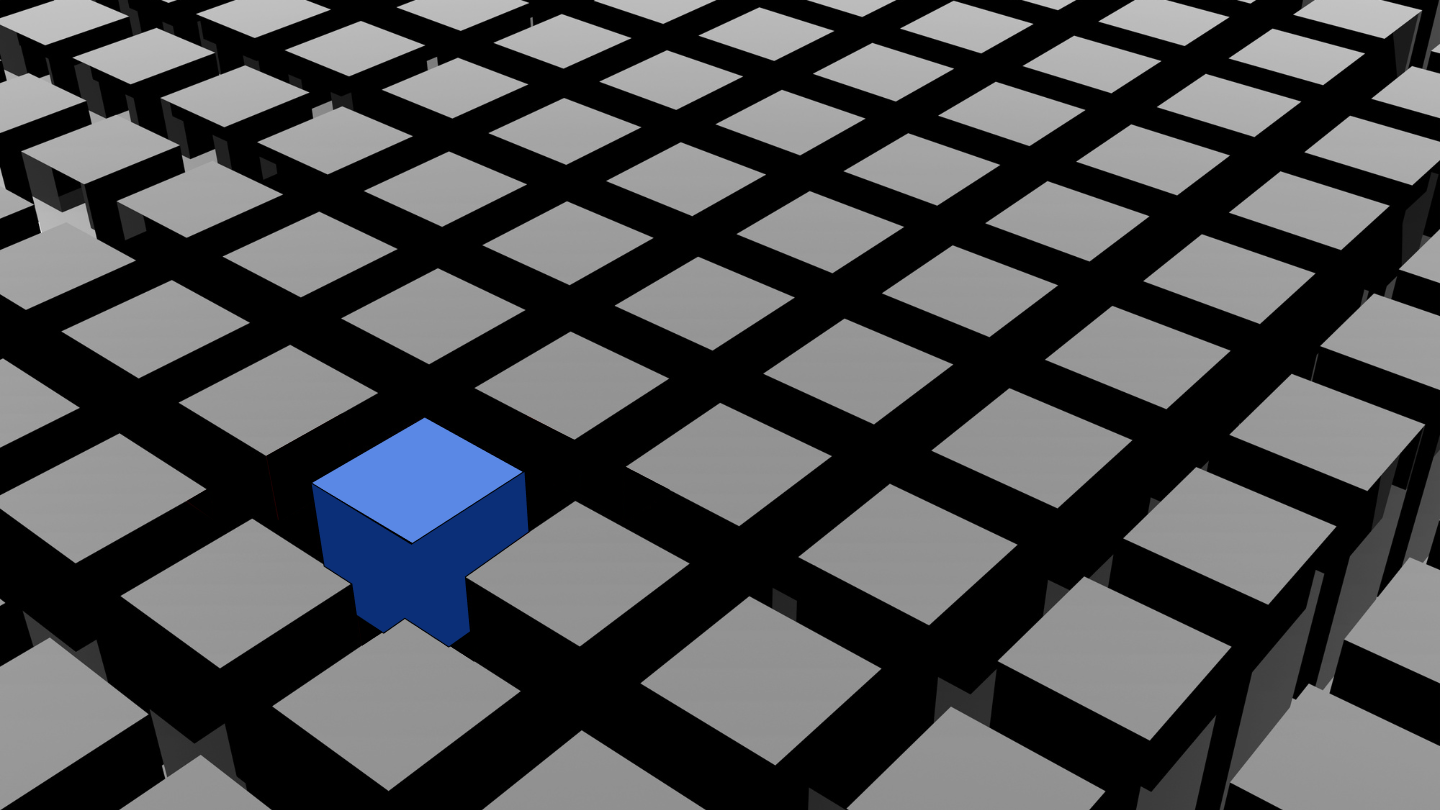
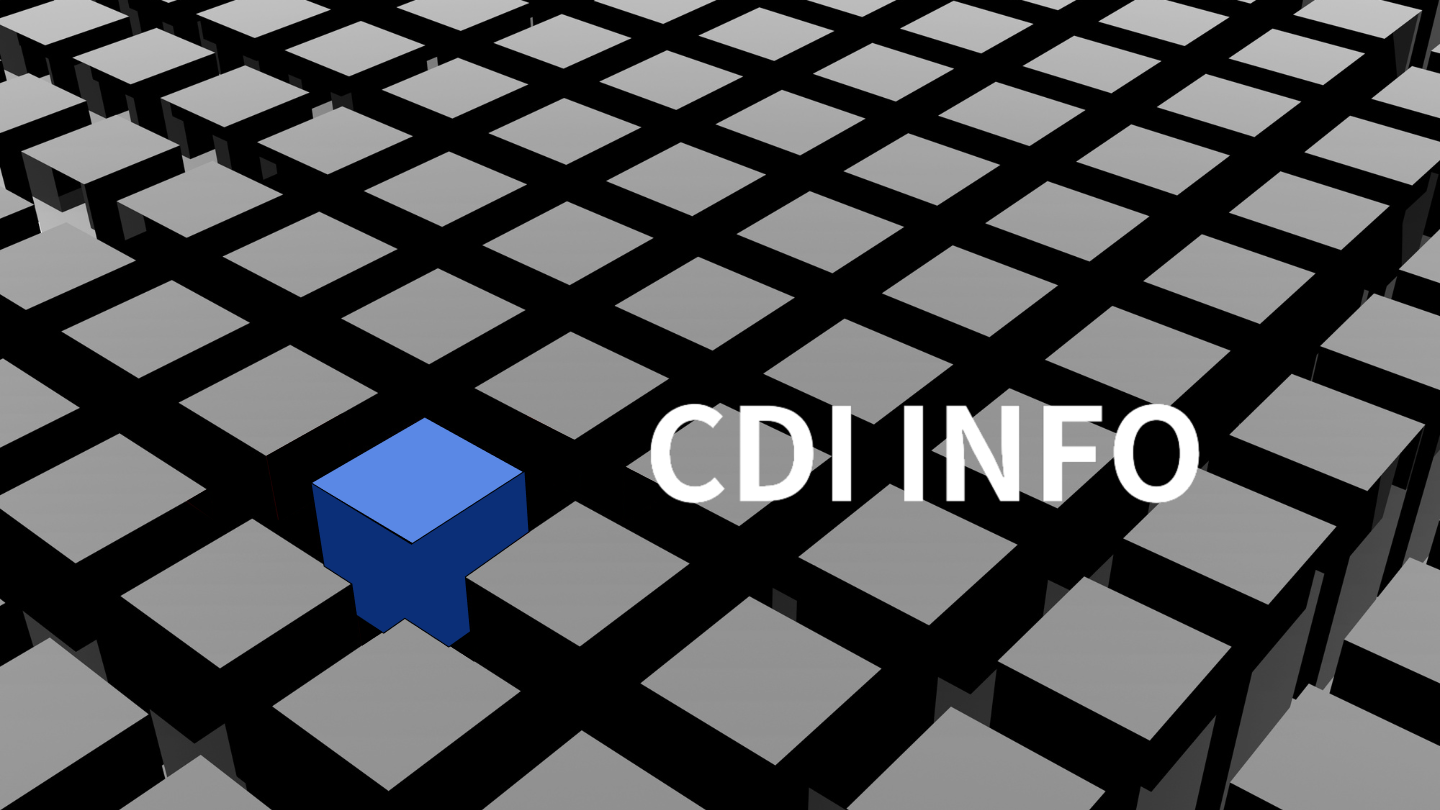
拡大率修正

Changed region(s): [[0.625, 0.4938, 0.8438, 0.6173], [0.4375, 0.4938, 0.5938, 0.6173]]

diff --git a/css/style.css b/css/style.css
@@ -18,11 +18,6 @@ img {
   max-width: 100%;
 }
 
-ul {
-    max-width: 1300px;
-  margin: 0 auto;
-  padding: 0 20px;
-}
 li {
   list-style: none;
 }
@@ -33,16 +28,12 @@ li {
   background-size: 100%;
   /* 画像を60%の高さ */
   height: 50vh;
-  background-image: url(../img/img_PC\(4\).png);
+  background-image: url(../img/img_PC.png);
   /* 画像の表示位置を指定 */
   background-position: 70% 80%;
   background-repeat: no-repeat;
   position: relative;
   margin-bottom: 5%;
-  width: 100%;
-  max-width: 1300px;
-  margin: 0 auto;
-  padding: 0 20px;
 }
 
 .header__top {
@@ -58,9 +49,9 @@ li {
 /* 共通のコンテンツ幅設定クラス */
 .wrapper {
   padding: 0 5%;
-    max-width: 1300px;
+  max-width: 1800px;
   margin: 0 auto;
-  padding: 0 20px;
+  padding: 0 1%;
 }
 
 .group {
@@ -143,9 +134,6 @@ li {
   display: flex;
   justify-content: flex-start;
   gap: 3%;
-    width: 80%;
-  max-width: 1200px;
-  min-width: 600px; /* コンテナも同様に最小幅を指定 */
   margin: 0 auto;
 
 }
@@ -186,12 +174,8 @@ li {
 }
 
 .footer p {
-    /* max-width: 1300px;
-  margin: 0 auto;
-  padding: 0 20px; */
   text-align: right;
   margin: 1%;
-  
   
 }
 

diff --git a/index.html b/index.html
@@ -12,7 +12,7 @@
 
 <body>
   <!-- ヘッダー -->
-  <header class="header">
+  <header class="header wrapper">
     <h1 class="header__top">CDI INFO</h1>
   </header>
   <main>
